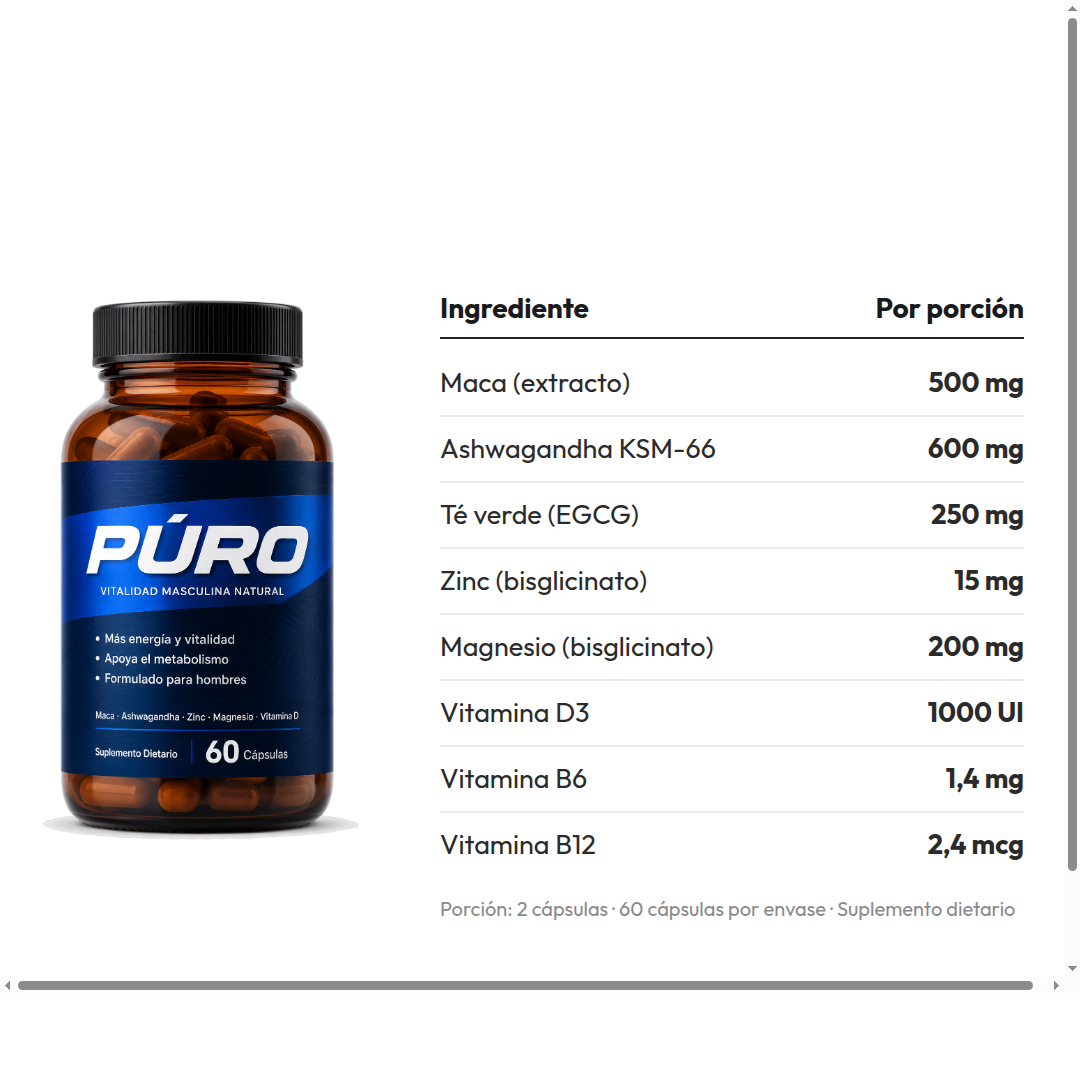
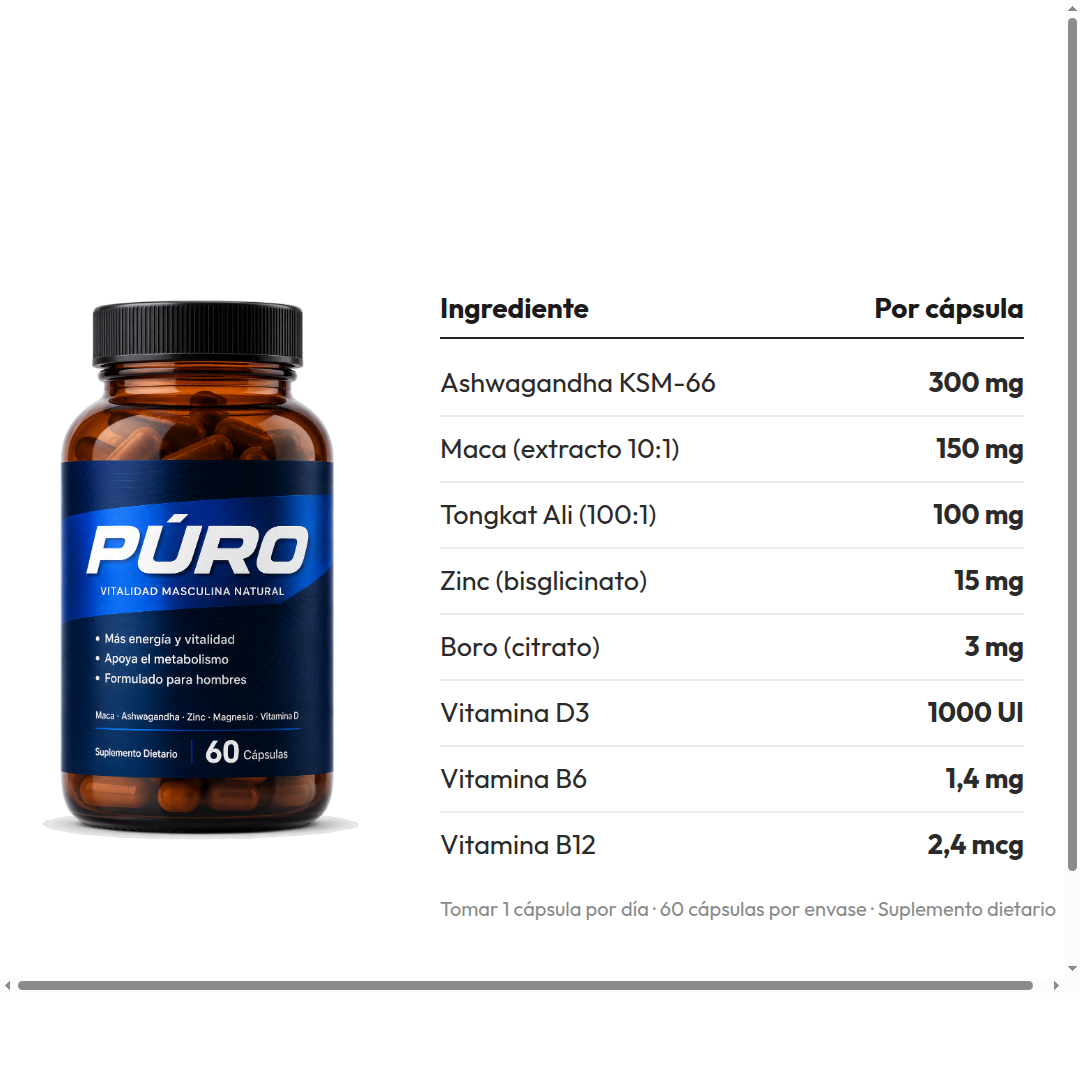
Fórmula definitiva 1 cápsula/día + tabla de ingredientes actualizada
Fija la presentación de 1 cápsula al día (extractos concentrados, sin
magnesio ni té verde por volumen) como fórmula definitiva en el doc y
actualiza la tabla de ingredientes a "Por cápsula".

Claude-Session: https://claude.ai/code/session_01Y7XaXvcYeyQEvcHn4DeuRQ

diff --git a/marca/09-formula.md b/marca/09-formula.md
@@ -4,6 +4,26 @@
 
 ---
 
+## ⭐ FÓRMULA DEFINITIVA — 1 CÁPSULA AL DÍA
+> Presentación elegida: **1 cápsula por día** (cápsula "00", ~720 mg de polvo). Usa extractos concentrados para que entre todo en una sola toma. **Se quitan Magnesio y Té verde por volumen** (no entran en 1 cápsula). Las versiones A/B de abajo quedan como referencia/alternativa de 2 cápsulas.
+
+| Activo | Por cápsula | Para qué |
+|---|---|---|
+| Ashwagandha KSM-66 (5% withanólidos) | 300 mg | Estrés, descanso, apoyo a T |
+| Maca (extracto 10:1) | 150 mg | Energía y vitalidad |
+| Tongkat Ali (Eurycoma 100:1) | 100 mg | Vitalidad masculina *(confirmar habilitación ANMAT)* |
+| Zinc (bisglicinato) | 15 mg | Equilibrio hormonal y metabolismo |
+| Boro (citrato) | 3 mg | Soporte hormonal |
+| Vitamina D3 | 1000 UI | Músculo e inmunidad |
+| Vitamina B6 | 1,4 mg | Energía / función hormonal |
+| Vitamina B12 | 2,4 mcg | Antifatiga |
+
+- **Modo de uso:** Tomar **1 cápsula por día** con el desayuno.
+- **Envase:** 60 cápsulas (2 meses) o 30 cápsulas (1 mes), a definir.
+- **Trade-off honesto:** 1 cápsula = máxima comodidad y mejor marketing, pero sin Magnesio ni Té verde (el ángulo metabólico es más fuerte en la versión de 2 caps). El llenado real y las densidades las confirma el elaborador.
+
+---
+
 ## 0. Marco regulatorio (lo que tenés que saber sí o sí)
 
 - **Categoría:** Suplemento dietario (no medicamento). Autoridad: **INAL / ANMAT**.
